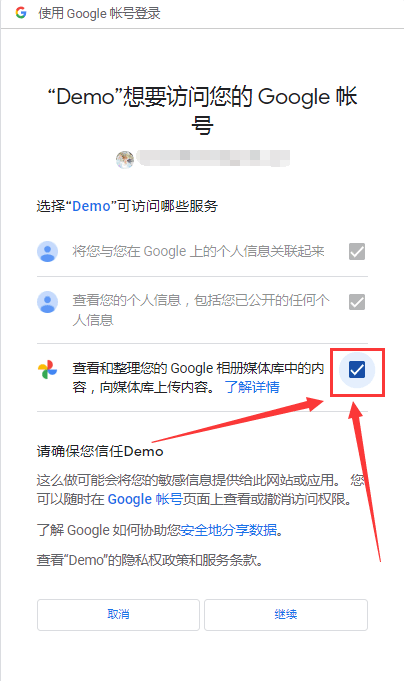
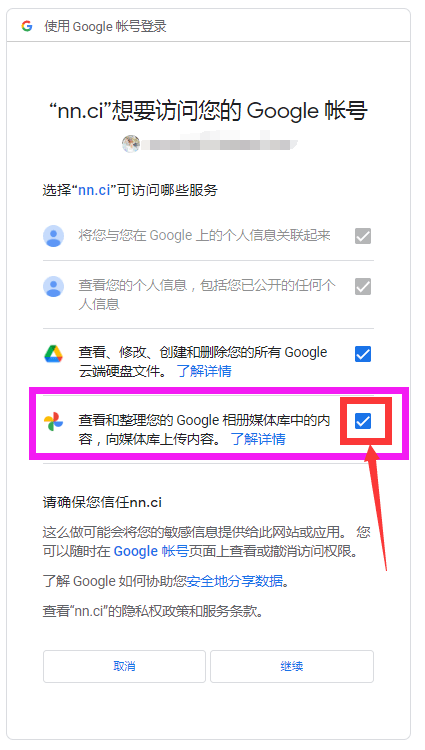
fix google photos and other

diff --git a/docs/guide/drivers/googlephotos.md b/docs/guide/drivers/googlephotos.md
@@ -42,27 +42,19 @@ Remember to check this option, otherwise an error will be reported, as explained
 
 :::
 
-
-After the Code code is obtained, obtain the refresh token
-
-![Googlephotos](/img/drivers/google/Google-photos.png)
-
-
+It is more convenient now. In fact, when obtaining Google cloud disk authorization, select the album permission at the same time, and the token obtained at that time can also be used to mount the album~ kill two birds with one stone
 
 Remember to open **`Photos Library API`** oh~
 
-https://console.cloud.google.com/apis/library/photoslibrary.googleapis.com?project=instant-shard-350513
-
-
+- https://console.cloud.google.com/apis/library/photoslibrary.googleapis.com?project=instant-shard-350513
 
 ### Two notes:
 
 1. failed get objs: failed to list objs: Request had insufficient authentication scopes.: []
-    - It's because you didn't check `View and organize the content in your Google Photos media libraryView and organize the content in your Google Photos media library when getting the Code code
-      Content, upload content to the media library. For details, upload content to the media library. Learn more`
-
-2. failed get objs: failed to list objs: Photos Library API has not been used in project 357075621397 before or it is disabled. Enable it by visiting https://console.developers.google.com/apis/api/photoslibrary.googleapis.com/overview?project=357075621397 then retry. If you enabled this API recently, wait a few minutes for the action to propagate to our systems and retry.: []
-    - because **`Photos Library API`** is not enabled
+    - It's because you didn't check the album permission (see the picture mentioned above) `view and organize the content in your Google Photos media library, and upload content to the media library when obtaining authorization. Learn more`
+    
+2. failed get objs: failed to list objs: Photos Library API has not been used in project 357075621397 before or it is disabled. Enable it by visiting <https://console.developers.google.com/apis/api/photoslibrary.googleapis.com/overview?project=357075621397> then retry. If you enabled this API recently, wait a few minutes for the action to propagate to our systems and retry.: []
+    - because **`Photos Library API`** is not enabled,Google Photos API
 
 ### Finish
 

diff --git a/docs/zh/guide/drivers/googlephotos.md b/docs/zh/guide/drivers/googlephotos.md
@@ -42,26 +42,19 @@ star: true
 
 :::
 
-
-
-Code代码拿到后 获取刷新令牌
-
-![Googlephotos](/img/drivers/google/Google-photos.png)
-
-
+现在更加方便了，其实获取谷歌云盘的时候勾选了相册到时候获取到的token也可以拿来挂载相册~一举两得
 
 记得打开 **`Photos Library API`** 哦~
 
-https://console.cloud.google.com/apis/library/photoslibrary.googleapis.com?project=instant-shard-350513
+- **https://console.cloud.google.com/apis/library/photoslibrary.googleapis.com?project=instant-shard-350513**
 
 ### 两个注意事项：
 
 1. failed get objs: failed to list objs: Request had insufficient authentication scopes.: []
-   - 是因为在获取Code代码的时候没有勾选  `查看和整理您的Google相册媒体库中的内查看和整理您的google相册媒体库中的内
-     容,向媒体库上传内容。了解详情容，向媒体库上传内容.了解详情` 
-
-2. failed get objs: failed to list objs: Photos Library API has not been used in project 357075621397 before or it is disabled. Enable it by visiting https://console.developers.google.com/apis/api/photoslibrary.googleapis.com/overview?project=357075621397 then retry. If you enabled this API recently, wait a few minutes for the action to propagate to our systems and retry.: []
-   - 是因为没有开启 **`Photos Library API`** 
+   - 是因为在获取授权的时候没有勾选 相册权限（查看上面提到的图片） `查看和整理您的Google相册媒体库中的内容,向媒体库上传内容。了解详情容` 
+   
+2. failed get objs: failed to list objs: Photos Library API has not been used in project 357075621397 before or it is disabled. Enable it by visiting <https://console.developers.google.com/apis/api/photoslibrary.googleapis.com/overview?project=357075621397> then retry. If you enabled this API recently, wait a few minutes for the action to propagate to our systems and retry.: []
+   - 是因为没有开启 **`Photos Library API`**  谷歌相册API
 
 ### 挂载展示
 

diff --git a/docs/guide/drivers/googledrive.md b/docs/guide/drivers/googledrive.md
@@ -79,6 +79,8 @@ After getting `Client ID` and `Client Secret`
 
 Let's go back to the beginning **https://alist.nn.ci/tool/google/request** and fill in `Client ID` and `Client Secret`
 
+ ==Remember to check the option behind **Cloud Disk** and **Album** when obtaining authorization==
+
 Then start to log in to the account. If it prompts **not verified by Google**, click on the left to continue. After authorization, you will see our token refreshed.
 
 After the above operations, we also got the `refresh token`, let’s go to **`Alist background`** Add account to add it~

diff --git a/docs/guide/drivers/189.md b/docs/guide/drivers/189.md
@@ -48,5 +48,5 @@ Video reference: **https://www.bilibili.com/video/BV16A4y197De**
 
 ## suggestion
 
-It is recommended to use the Tianyi cloud disk client first, [**Notes click to view.**](https://alist.nn.ci/zh/faq/howto.html#when-adding-Tianyi-cloud-disk-client-storage-prompt-need-img-validate-code-verification-code)
+It is recommended to use the Tianyi cloud disk client first, [**Notes click to view.**](../../faq/howto.md#when-adding-Tianyi-cloud-disk-client-storage-prompt-need-img-validate-code-verification-code)
 

diff --git a/docs/zh/guide/drivers/googledrive.md b/docs/zh/guide/drivers/googledrive.md
@@ -82,6 +82,8 @@ star: true
 
 我们回到最开始 **https://alist.nn.ci/tool/google/request** 把 `客户端ID`  和  `客户端秘钥 ` 填进去
 
+ ==获取授权时记得勾选 **云盘** 和 **相册** 后面 选项==
+
 然后开始登录账号，若提示**未经Google验证**点击左侧继续就行，授权后就会看到我们的token刷新出来了
 
 上述操作后我们也拿到了 `刷新令牌`我们去 **`Alist后台`** 添加账号里面进行添加吧~

diff --git a/docs/zh/guide/drivers/189.md b/docs/zh/guide/drivers/189.md
@@ -52,4 +52,4 @@ star: true
 
 ## 建议
 
-建议首选使用天翼云盘客户端，[**注意事项点击查看**](https://alist.nn.ci/zh/faq/howto.html#添加-天翼云盘客户端-存储时-提示-need-img-validate-code-验证码)
+建议首选使用天翼云盘客户端，[**注意事项点击查看**](../../faq/howto.md#添加-天翼云盘客户端-存储时-提示-need-img-validate-code-验证码)
